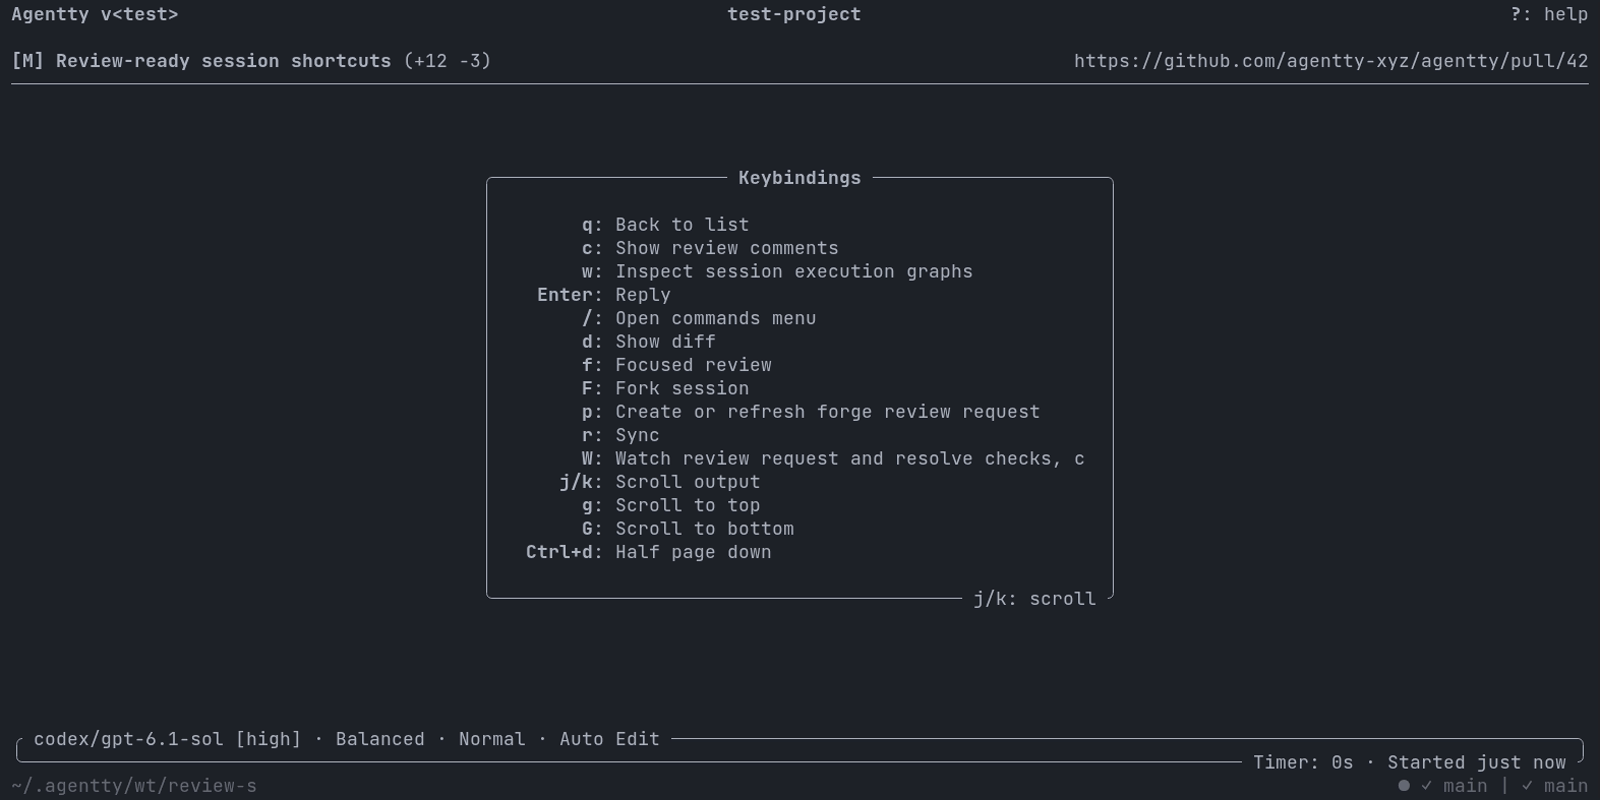
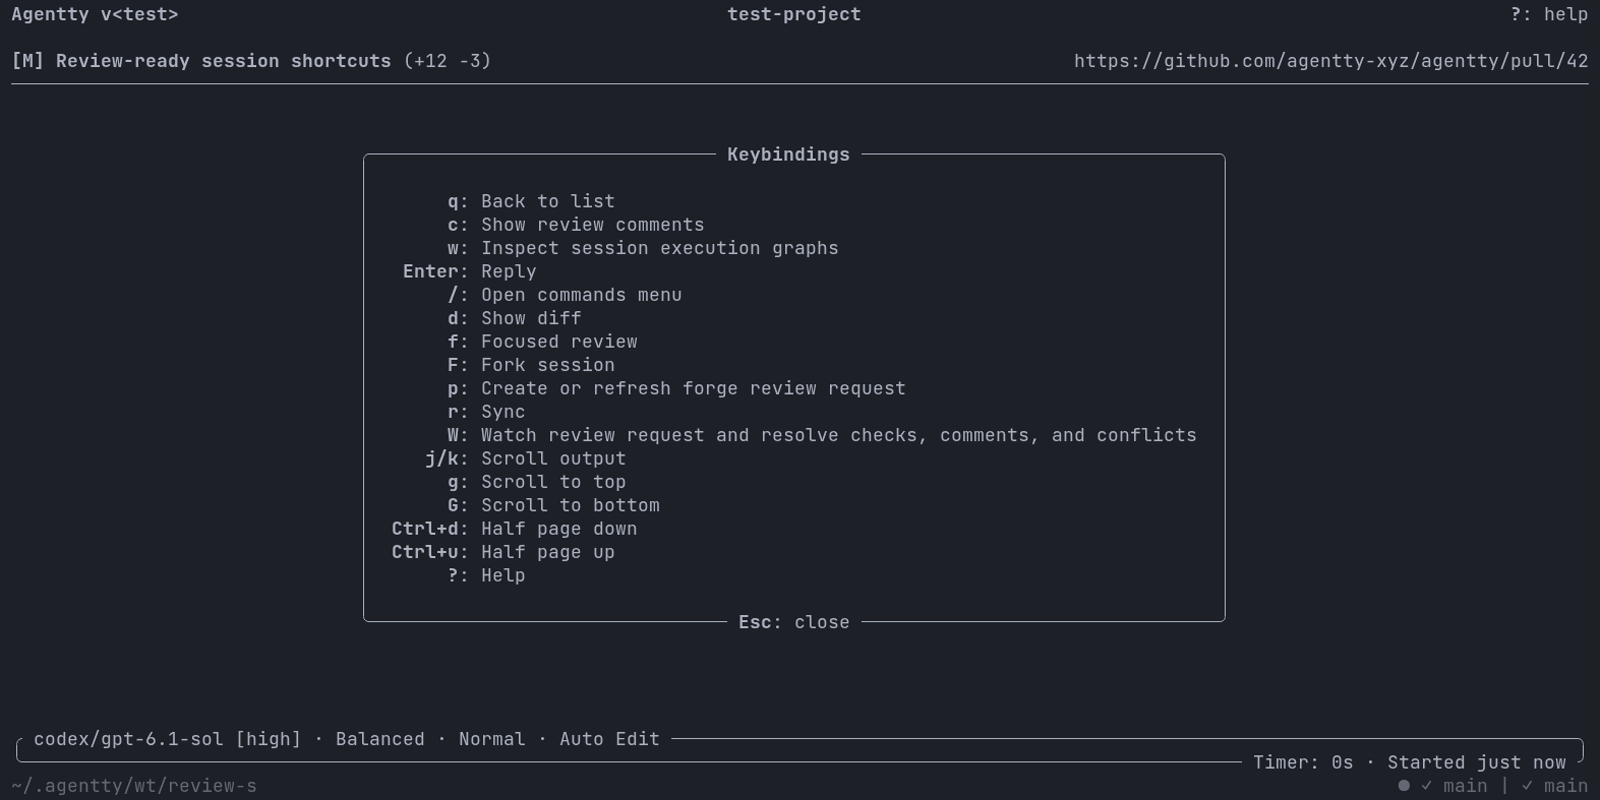
Size help popup to its content and show close hint
- Size the keybinding help popup to fit its title, shortcut rows, and bottom hint instead of a fixed percentage with minimum dimensions
- Show `Esc: close` in the popup's bottom border, adding `j/k: scroll` only when the shortcut rows overflow the popup height
- Update help overlay tests so the title and bottom hint each set the popup width, set an 80x13 terminal size for the session help scroll E2E scenario, document the close hint in the keybindings page, and refresh the affected help feature captures

diff --git a/crates/agentty/src/ui/component/help_overlay.rs b/crates/agentty/src/ui/component/help_overlay.rs
@@ -5,23 +5,31 @@ use ratatui::text::{Line, Span};
 use ratatui::widgets::Paragraph;
 
 use crate::presentation::app_mode::HelpContext;
+use crate::presentation::help_action::HelpAction;
 use crate::ui::style::palette;
-use crate::ui::{Component, overlay};
+use crate::ui::{Component, help_format, overlay};
 
-const MIN_OVERLAY_WIDTH: u16 = 30;
+/// Corner columns around the bottom hint, which carries its own spacing.
+const HINT_CHROME_WIDTH: usize = 2;
 
-const MIN_OVERLAY_HEIGHT: u16 = 10;
+/// Corner columns plus the spaces the shared overlay frame adds around titles.
+const TITLE_CHROME_WIDTH: usize = 4;
 
-/// Popup dimensions for the mode-sensitive keybinding help overlay.
-const OVERLAY_DIMENSIONS: overlay::OverlayDimensions =
-    overlay::OverlayDimensions::new(40, 60, MIN_OVERLAY_WIDTH, MIN_OVERLAY_HEIGHT);
+/// Columns added by the overlay frame borders and horizontal padding.
+const HORIZONTAL_CHROME_WIDTH: usize = 6;
+
+/// Bottom-border shortcut that dismisses the overlay.
+const CLOSE_ACTION: HelpAction = HelpAction::new("close", "Esc", "Close");
+
+/// Bottom-border shortcut shown when the shortcut list overflows the popup.
+const SCROLL_ACTION: HelpAction = HelpAction::new("scroll", "j/k", "Scroll");
 
 const SCROLL_X_OFFSET: u16 = 0;
 
-/// Bottom-border cue shown when the shortcut list overflows the popup.
-const SCROLL_HINT: &str = " j/k: scroll ";
-
 /// Centered popup overlay showing keybindings for the current page.
+///
+/// The popup shrinks to fit its title, shortcut rows, and bottom hint, and
+/// only clamps to the frame when the terminal is smaller than that content.
 pub struct HelpOverlay<'a> {
     context: &'a HelpContext,
 
@@ -43,15 +51,42 @@ impl<'a> HelpOverlay<'a> {
         self.scroll_offset = offset;
         self
     }
+
+    /// Builds the bottom-border hint, adding the scroll cue only when the
+    /// shortcut rows overflow the popup height.
+    fn bottom_hint(is_overflowing: bool) -> Line<'static> {
+        let actions: &[HelpAction] = if is_overflowing {
+            &[SCROLL_ACTION, CLOSE_ACTION]
+        } else {
+            &[CLOSE_ACTION]
+        };
+        let mut hint = help_format::footer_line(actions);
+        hint.spans.insert(0, Span::raw(" "));
+        hint.spans.push(Span::raw(" "));
+
+        hint
+    }
+
+    /// Returns a centered popup rectangle sized to the widest of the title,
+    /// shortcut rows, and bottom hint, clamped to `area`.
+    fn popup_area(area: Rect, title: &str, row_width: usize, row_count: usize) -> Rect {
+        let required_height = overlay::overlay_required_height(row_count);
+        let bottom_hint = Self::bottom_hint(required_height > area.height);
+        let title_width = title.len() + TITLE_CHROME_WIDTH;
+        let hint_width = bottom_hint.width() + HINT_CHROME_WIDTH;
+        let required_width = (row_width + HORIZONTAL_CHROME_WIDTH)
+            .max(title_width)
+            .max(hint_width);
+        let required_width = u16::try_from(required_width).unwrap_or(u16::MAX);
+
+        overlay::centered_popup_area(area, 0, 0, required_width, required_height)
+    }
 }
 
 impl Component for HelpOverlay<'_> {
     fn render(&self, f: &mut Frame, area: Rect) {
-        let popup_area = OVERLAY_DIMENSIONS.centered_popup_area(area);
-
-        overlay::clear_popup_area(f, popup_area);
-
         let bindings = self.context.keybindings();
+        let title = self.context.title();
 
         let key_width = bindings
             .iter()
@@ -59,41 +94,39 @@ impl Component for HelpOverlay<'_> {
             .max()
             .unwrap_or(0);
 
-        let max_content_width = bindings
+        let row_width = bindings
             .iter()
-            .map(|binding| 1 + key_width + 2 + binding.popup_label.len())
+            .map(|binding| key_width + 2 + binding.popup_label.len())
             .max()
             .unwrap_or(0);
 
+        let popup_area = Self::popup_area(area, title, row_width, bindings.len());
+
+        overlay::clear_popup_area(f, popup_area);
+
         let content_width = overlay::overlay_content_width(popup_area.width);
-        let left_padding = content_width.saturating_sub(max_content_width) / 2;
+        let indent = " ".repeat(content_width.saturating_sub(row_width) / 2);
 
-        let indent = " ".repeat(left_padding);
+        let lines: Vec<Line<'_>> = bindings
+            .iter()
+            .map(|binding| {
+                Line::from(vec![
+                    Span::raw(indent.clone()),
+                    Span::styled(
+                        format!("{:>key_width$}", binding.key),
+                        Style::default()
+                            .fg(palette::accent())
+                            .add_modifier(Modifier::BOLD),
+                    ),
+                    Span::styled(": ", Style::default().fg(palette::text())),
+                    Span::styled(binding.popup_label, Style::default().fg(palette::text())),
+                ])
+            })
+            .collect();
 
-        let mut lines: Vec<Line<'_>> = Vec::with_capacity(bindings.len());
-
-        for binding in bindings {
-            lines.push(Line::from(vec![
-                Span::raw(indent.clone()),
-                Span::raw(" "),
-                Span::styled(
-                    format!("{:>key_width$}", binding.key),
-                    Style::default()
-                        .fg(palette::accent())
-                        .add_modifier(Modifier::BOLD),
-                ),
-                Span::styled(": ", Style::default().fg(palette::text())),
-                Span::styled(binding.popup_label, Style::default().fg(palette::text())),
-            ]));
-        }
-
-        let mut block = overlay::overlay_block(self.context.title(), palette::accent());
-        if overlay::overlay_required_height(lines.len()) > popup_area.height {
-            block = block.title_bottom(
-                Line::styled(SCROLL_HINT, Style::default().fg(palette::text_muted()))
-                    .right_aligned(),
-            );
-        }
+        let is_overflowing = overlay::overlay_required_height(lines.len()) > popup_area.height;
+        let block = overlay::overlay_block(title, palette::accent())
+            .title_bottom(Self::bottom_hint(is_overflowing).centered());
         let paragraph = Paragraph::new(lines)
             .block(block)
             .scroll((self.scroll_offset, SCROLL_X_OFFSET));

diff --git a/crates/agentty/src/ui/component/help_overlay_test.rs b/crates/agentty/src/ui/component/help_overlay_test.rs
@@ -1,74 +1,101 @@
 use ratatui::Terminal;
 use ratatui::backend::TestBackend;
-use ratatui::buffer::Cell;
+use ratatui::buffer::Buffer;
 use ratatui::layout::Rect;
 
-use super::{HelpOverlay, OVERLAY_DIMENSIONS};
+use super::HelpOverlay;
 use crate::presentation::app_mode::HelpContext;
 use crate::presentation::help_action::HelpAction;
 use crate::ui::Component;
 
-#[test]
-fn test_popup_area_centers_within_area() {
-    // Arrange
+/// Renders the help overlay into an in-memory terminal and returns its rows.
+fn render_rows(context: &HelpContext, width: u16, height: u16) -> Vec<String> {
+    let backend = TestBackend::new(width, height);
+    let mut terminal = Terminal::new(backend).expect("failed to create terminal");
 
+    terminal
+        .draw(|frame| HelpOverlay::new(context).render(frame, frame.area()))
+        .expect("failed to render help overlay");
+
+    buffer_rows(terminal.backend().buffer())
+}
+
+/// Collects one string per buffer row.
+fn buffer_rows(buffer: &Buffer) -> Vec<String> {
+    (0..buffer.area.height)
+        .map(|row| {
+            (0..buffer.area.width)
+                .map(|column| buffer[(column, row)].symbol())
+                .collect()
+        })
+        .collect()
+}
+
+/// Builds a list-mode help context with `count` copies of one shortcut.
+fn repeated_quit_context(count: usize) -> HelpContext {
+    HelpContext::List {
+        keybindings: (0..count)
+            .map(|_| HelpAction::new("quit", "q", "Quit"))
+            .collect(),
+    }
+}
+
+#[test]
+fn test_popup_area_fits_rows_and_chrome() {
+    // Arrange
     let area = Rect::new(0, 0, 100, 50);
 
     // Act
+    let popup = HelpOverlay::popup_area(area, "Keybindings", 30, 5);
 
-    let popup = OVERLAY_DIMENSIONS.centered_popup_area(area);
+    // Assert — 30 row columns + 6 chrome columns, 5 rows + 4 chrome rows
+    assert_eq!(popup, Rect::new(32, 20, 36, 9));
+}
 
-    // Assert
+#[test]
+fn test_popup_area_grows_to_fit_title_and_hint() {
+    // Arrange
+    let area = Rect::new(0, 0, 100, 50);
 
-    assert_eq!(popup.width, 40);
+    // Act
+    let title_popup = HelpOverlay::popup_area(area, "A very long keybindings title", 4, 1);
+    let hint_popup = HelpOverlay::popup_area(area, "Keys", 4, 1);
 
-    assert_eq!(popup.height, 30);
+    // Assert — title needs 29 + 4 columns; " Esc: close " needs 12 + 2 columns,
+    // wider than both the 4 + 4 title columns and the 4 + 6 row columns
+    assert_eq!(title_popup.width, 33);
+    assert_eq!(hint_popup.width, 14);
+}
 
-    assert_eq!(popup.x, 30);
+#[test]
+fn test_popup_area_grows_to_fit_scroll_hint_when_overflowing() {
+    // Arrange — 47 rows + 4 chrome rows exceed the 50-row area
+    let area = Rect::new(0, 0, 100, 50);
 
-    assert_eq!(popup.y, 10);
+    // Act
+    let popup = HelpOverlay::popup_area(area, "Keys", 4, 47);
+
+    // Assert — " j/k: scroll | Esc: close " needs 26 + 2 columns
+    assert_eq!(popup.width, 28);
+    assert_eq!(popup.height, 50);
 }
 
 #[test]
 fn test_popup_area_clamps_to_area_when_small() {
     // Arrange
-
     let area = Rect::new(0, 0, 20, 8);
 
     // Act
+    let popup = HelpOverlay::popup_area(area, "Keybindings", 40, 20);
 
-    let popup = OVERLAY_DIMENSIONS.centered_popup_area(area);
-
-    // Assert — min sizes clamped to area
-
-    assert_eq!(popup.width, 20);
-
-    assert_eq!(popup.height, 8);
-}
-
-#[test]
-fn test_popup_area_respects_minimum_dimensions() {
-    // Arrange
-
-    let area = Rect::new(0, 0, 40, 20);
-
-    // Act
-
-    let popup = OVERLAY_DIMENSIONS.centered_popup_area(area);
-
-    // Assert — 40% of 40=16 < MIN 30, so width = 30; 60% of 20=12 >= MIN 10
-
-    assert_eq!(popup.width, 30);
-
-    assert_eq!(popup.height, 12);
+    // Assert
+    assert_eq!(popup, area);
 }
 
 #[test]
 fn test_help_overlay_new_stores_fields() {
     // Arrange
-    let context = HelpContext::List {
-        keybindings: vec![HelpAction::new("quit", "q", "Quit")],
-    };
+    let context = repeated_quit_context(1);
 
     // Act
     let overlay = HelpOverlay::new(&context).scroll_offset(5);
@@ -78,30 +105,40 @@ fn test_help_overlay_new_stores_fields() {
 }
 
 #[test]
+fn test_help_overlay_has_no_empty_rows_and_shows_close_hint() {
+    // Arrange
+    let context = HelpContext::List {
+        keybindings: vec![
+            HelpAction::new("quit", "q", "Quit"),
+            HelpAction::new("help", "?", "Help"),
+        ],
+    };
+
+    // Act
+    let rows = render_rows(&context, 80, 24);
+
+    // Assert — top border, padding, 2 rows, padding, bottom border
+    let popup_rows: Vec<&String> = rows.iter().filter(|row| !row.trim().is_empty()).collect();
+    assert_eq!(popup_rows.len(), 6);
+    assert!(popup_rows[0].contains("Keybindings"));
+    assert!(popup_rows[2].contains("q: Quit"));
+    assert!(popup_rows[3].contains("?: Help"));
+    assert!(popup_rows[5].contains("Esc: close"));
+    assert!(!popup_rows[5].contains("j/k: scroll"));
+}
+
+#[test]
 fn test_help_overlay_shows_scroll_hint_only_when_entries_overflow() {
-    for (action_count, expects_hint) in [(10, false), (11, true)] {
+    for (action_count, expects_hint) in [(20, false), (21, true)] {
         // Arrange
-        let context = HelpContext::List {
-            keybindings: (0..action_count)
-                .map(|_| HelpAction::new("quit", "q", "Quit"))
-                .collect(),
-        };
-        let backend = TestBackend::new(80, 24);
-        let mut terminal = Terminal::new(backend).expect("failed to create terminal");
+        let context = repeated_quit_context(action_count);
 
         // Act
-        terminal
-            .draw(|frame| HelpOverlay::new(&context).render(frame, frame.area()))
-            .expect("failed to render help overlay");
+        let rows = render_rows(&context, 80, 24);
 
         // Assert
-        let text: String = terminal
-            .backend()
-            .buffer()
-            .content
-            .iter()
-            .map(Cell::symbol)
-            .collect();
-        assert_eq!(text.contains("j/k: scroll"), expects_hint);
+        let text = rows.concat();
+        assert_eq!(text.contains("j/k: scroll | Esc: close"), expects_hint);
+        assert!(text.contains("Esc: close"));
     }
 }

diff --git a/crates/agentty/tests/e2e/session/review.rs b/crates/agentty/tests/e2e/session/review.rs
@@ -1210,13 +1210,14 @@ async fn agent_review_session_shows_sync_shortcut() -> E2eResult {
     Ok(())
 }
 
-/// Verify a default-size terminal cues the overflowing session help list and
-/// scrolls it to reveal the sync shortcut below the first page.
+/// Verify a short terminal cues the overflowing session help list and scrolls
+/// it to reveal the sync shortcut below the first page.
 #[tokio::test]
 async fn session_help_cues_scrolling_to_hidden_shortcuts() -> E2eResult {
     // Arrange, Act, Assert
     FeatureTest::new("session_help_scroll_cue")
         .with_git()
+        .with_terminal_size(80, 13)
         .setup(|env| Box::pin(async move { seed_agent_review_session(env).await }))
         .run(
             |scenario| {

diff --git a/docs/site/content/docs/usage/keybindings.md b/docs/site/content/docs/usage/keybindings.md
@@ -6,8 +6,9 @@ weight = 2
 
 <a id="usage-keybindings-introduction"></a> This page lists keyboard shortcuts for each
 Agentty view. In the app, press `?`, shown as `?: help` at the right of the top bar, to
-list the shortcuts available on the current page. When the list is longer than the
-popup, its bottom border shows `j/k: scroll`.
+list the shortcuts available on the current page. The popup fits its shortcut list, and
+its bottom border shows `Esc: close`. When the list is taller than the terminal, the
+border also shows `j/k: scroll`.
 
 For session states and transition behavior, see [Workflow](@/docs/usage/workflow.md).
 
